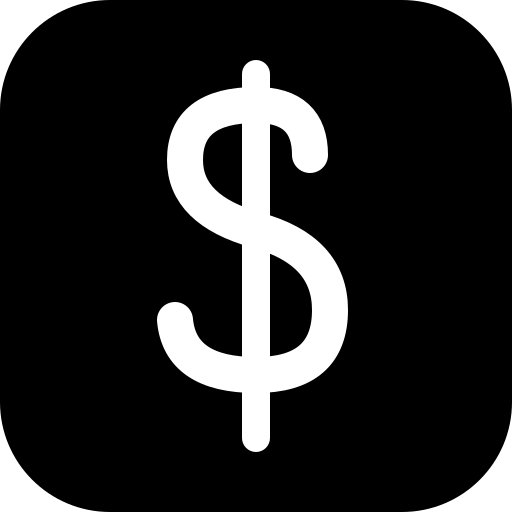
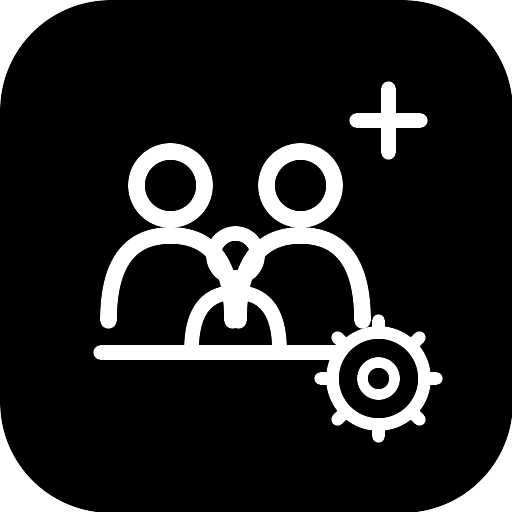
Nuova icona app: famiglia (2 adulti + bambino) + ingranaggio + plus, line-art bianco su nero
- icon.svg, icon-192.png, icon-512.png, apple-touch-icon.png rigenerati (design coerente con la richiesta utente di un'icona famiglia/impostazioni/aggiungi, creata direttamente senza attesa dell'immagine originale)

diff --git a/src/auth/LoginScreen.jsx b/src/auth/LoginScreen.jsx
@@ -5,7 +5,7 @@ import { saveTotpSecret } from '../services/firestore'
 import { getLastLogin, isBiometricSupported } from '../services/biometric'
 import './LoginScreen.css'
 
-export const APP_VERSION = '20260714-0930'
+export const APP_VERSION = '20260714-0955'
 export const BUILD_TIME  = typeof __BUILD_TIME__ !== 'undefined' ? __BUILD_TIME__ : '—'
 
 // ── Digit input (6 boxes) ─────────────────────────────────────────────────────